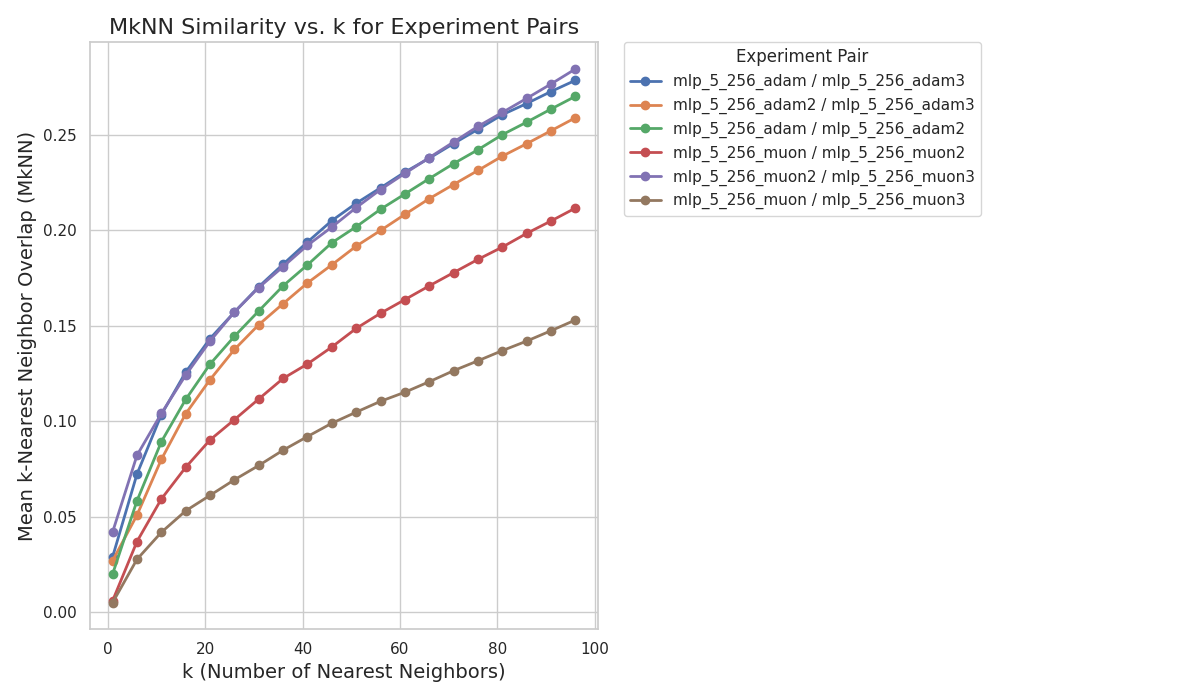
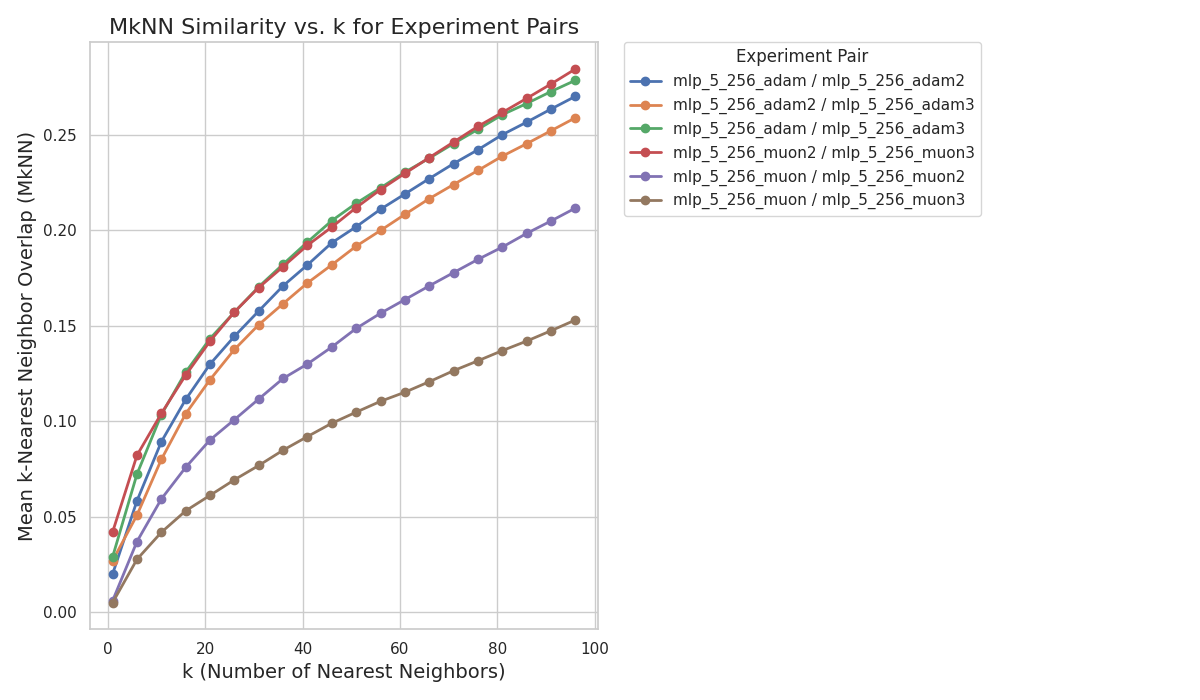
cka

diff --git a/analysis/similarity.py b/analysis/similarity.py
@@ -181,6 +181,7 @@ class similarityScores:
         return jaccard_scores.mean()
 
     def jaccard_experiment(self, pairs, write_path, metric='euclidean'):
+
         """
         Compute Jaccard similarity for multiple pairs of experiments and create a plot.
         """
@@ -207,7 +208,143 @@ class similarityScores:
         plt.savefig(write_path)
         print(f"Plot saved to {write_path}")
         plt.close()
-    
+
+    def cka(self, identifier1, identifier2, num_samples: int = 1000) -> torch.Tensor:
+        """
+        Implements linear Centered Kernel Alignment (CKA) similarity score.
+        This implementation includes normalization steps to ensure numerical stability
+        when comparing activations of different scales.
+
+        Args:
+            identifier1: Either a tuple of indices or a string experiment name
+            identifier2: Either a tuple of indices or a string experiment name
+            num_samples: Number of samples to use from each activation (for computational efficiency)
+
+        Returns:
+            float: linear CKA similarity between the two activation matrices
+        """
+        # Debug specific model pairs
+        debug = False
+        if 'muon' in str(identifier1) and 'muon3' in str(identifier2):
+            debug = True
+            print(f"\n==== DEBUG: CKA between {identifier1} and {identifier2} with {num_samples} samples ====")
+        elif 'adam' in str(identifier1) and 'adam' in str(identifier2) and num_samples >= 6000:
+            debug = True
+            print(f"\n==== DEBUG: CKA between {identifier1} and {identifier2} with {num_samples} samples ====")
+
+        # Load activations
+        X = self.get_activations(identifier1)
+        Y = self.get_activations(identifier2)
+
+        if debug:
+            print(f"Original X shape: {X.shape}, Y shape: {Y.shape}")
+            print(f"X stats - min: {X.min().item()}, max: {X.max().item()}, mean: {X.mean().item()}, std: {X.std().item()}")
+            print(f"Y stats - min: {Y.min().item()}, max: {Y.max().item()}, mean: {Y.mean().item()}, std: {Y.std().item()}")
+
+        # Subsample if needed
+        if X.shape[0] > num_samples:
+            X = X[:num_samples]
+        if Y.shape[0] > num_samples:
+            Y = Y[:num_samples]
+
+        if debug:
+            print(f"After subsampling - X shape: {X.shape}, Y shape: {Y.shape}")
+            print(f"X subsampled stats - min: {X.min().item()}, max: {X.max().item()}, mean: {X.mean().item()}, std: {X.std().item()}")
+            print(f"Y subsampled stats - min: {Y.min().item()}, max: {Y.max().item()}, mean: {Y.mean().item()}, std: {Y.std().item()}")
+
+        # Convert to double precision for numerical stability
+        X = X.to(torch.float64)
+        Y = Y.to(torch.float64)
+        
+        # NORMALIZE BY FROBENIUS NORM - critical for different scales
+        X_norm = torch.norm(X, p='fro')
+        Y_norm = torch.norm(Y, p='fro')
+        
+        if debug:
+            print(f"Original Frobenius norms - X: {X_norm.item()}, Y: {Y_norm.item()}")
+            
+        X = X / X_norm
+        Y = Y / Y_norm
+
+        # Center the representations
+        X = X - X.mean(dim=0, keepdim=True)
+        Y = Y - Y.mean(dim=0, keepdim=True)
+
+        if debug:
+            print(f"After normalization and centering - X mean: {X.mean().item()}, Y mean: {Y.mean().item()}")
+            print(f"X normalized stats - min: {X.min().item()}, max: {X.max().item()}, std: {X.std().item()}")
+            print(f"Y normalized stats - min: {Y.min().item()}, max: {Y.max().item()}, std: {Y.std().item()}")
+            
+            # Check for all-zero dimensions
+            x_zeros = (X.abs().sum(dim=0) < 1e-6).sum().item()
+            y_zeros = (Y.abs().sum(dim=0) < 1e-6).sum().item()
+            print(f"X has {x_zeros}/{X.shape[1]} near-zero dimensions")
+            print(f"Y has {y_zeros}/{Y.shape[1]} near-zero dimensions")
+
+        # Compute Gram matrices
+        gram_X = X @ X.T
+        gram_Y = Y @ Y.T
+
+        if debug:
+            print(f"Gram matrices - X shape: {gram_X.shape}, Y shape: {gram_Y.shape}")
+            print(f"Gram X stats - min: {gram_X.min().item()}, max: {gram_X.max().item()}, mean: {gram_X.mean().item()}")
+            print(f"Gram Y stats - min: {gram_Y.min().item()}, max: {gram_Y.max().item()}, mean: {gram_Y.mean().item()}")
+            print(f"Gram X Frobenius norm: {torch.norm(gram_X, p='fro').item()}")
+            print(f"Gram Y Frobenius norm: {torch.norm(gram_Y, p='fro').item()}")
+
+        # More stable HSIC calculation
+        hsic_val = torch.sum(gram_X * gram_Y)
+        norm_X = torch.sum(gram_X * gram_X)
+        norm_Y = torch.sum(gram_Y * gram_Y)
+
+        if debug:
+            print(f"HSIC value: {hsic_val.item()}")
+            print(f"Normalization terms - norm_X: {norm_X.item()}, norm_Y: {norm_Y.item()}")
+            print(f"Denominator: {(torch.sqrt(norm_X * norm_Y)).item()}")
+
+        # Small epsilon to avoid division by zero
+        cka_score = hsic_val / (torch.sqrt(norm_X * norm_Y) + 1e-10)
+        
+        if debug:
+            print(f"Final CKA score: {cka_score.item()}")
+            print("==== End Debug ====\n")
+
+        return cka_score.item()
+
+    def cka_experiment(self, pairs, write_path):
+        """
+        Calculate CKA on varying sample sizes for each pair to see how similarity
+        changes with the amount of data analyzed.
+        
+        Args:
+            pairs: List of pairs of experiment names
+            write_path: Path to save the plot
+        """
+        # Use specific sample sizes with better spacing
+        sample_lengths = np.arange(1000, 5000, 500)
+        results = np.zeros((len(pairs), len(sample_lengths)))
+
+        for i, pair in enumerate(pairs):
+            for j, n in enumerate(sample_lengths):
+                print(f"Computing CKA with {n} samples for {pair[0]} vs {pair[1]}")
+                results[i, j] = self.cka(pair[0], pair[1], num_samples=n)
+
+        plt.figure(figsize=(12, 7))
+        sns.set_theme(style="whitegrid")
+
+        for i, pair in enumerate(pairs):
+            label = f"{pair[0]} / {pair[1]}"
+            plt.plot(sample_lengths, results[i, :], marker='o', linewidth=2, label=label)
+        
+        plt.title('CKA Similarity vs. Sample Size for Experiment Pairs', fontsize=16)
+        plt.xlabel('Number of Samples', fontsize=14)
+        plt.ylabel('CKA Similarity', fontsize=14)
+        plt.legend(title='Experiment Pair', bbox_to_anchor=(1.05, 1), loc='upper left')
+        plt.tight_layout(rect=[0, 0, 0.85, 1])
+        plt.savefig(write_path)
+        print(f"Plot saved to {write_path}")
+        plt.close()
+
 
 if __name__ == "__main__":
 
@@ -216,7 +353,13 @@ if __name__ == "__main__":
     similarity_scores = similarityScores(activation_tensors)
 
     metric = 'euclidean'
-    pairs = [['mlp_5_256_adam', 'mlp_5_256_adam3'], ['mlp_5_256_adam2', 'mlp_5_256_adam3'], ['mlp_5_256_adam', 'mlp_5_256_adam2'], ['mlp_5_256_muon', 'mlp_5_256_muon2'], ['mlp_5_256_muon2', 'mlp_5_256_muon3'], ['mlp_5_256_muon', 'mlp_5_256_muon3']]
-    
-    similarity_scores.mknn_experiment(pairs, f'analysis/results/mknn_{metric}.png', metric = metric)
+    pairs = [['mlp_5_256_adam','mlp_5_256_adam2'],['mlp_5_256_adam2','mlp_5_256_adam3'], ['mlp_5_256_adam','mlp_5_256_adam3'], ['mlp_5_256_muon2', 'mlp_5_256_muon3'],['mlp_5_256_muon', 'mlp_5_256_muon2'], ['mlp_5_256_muon', 'mlp_5_256_muon3']]
 
+    # EXPERIMENT SUITE
+
+    # DISTANCE-BASED METRICS
+    similarity_scores.mknn_experiment(pairs, f'analysis/results/mknn_{metric}.png', metric = metric)
+    similarity_scores.jaccard_experiment(pairs, f'analysis/results/jaccard_{metric}.png', metric = metric)
+    
+    # DOT PRODUCT METRICS
+    #similarity_scores.cka_experiment(pairs, f'analysis/results/cka_vs_samples.png')

diff --git a/analysis/load_model.py b/analysis/load_model.py
@@ -11,7 +11,7 @@ project_root = os.path.dirname(current_script_dir)
 # Add the project root to sys.path to allow importing 'models'
 if project_root not in sys.path:
     sys.path.append(project_root)
-
+    
 from models import MLP # Assuming models.py is in the project root
 
 def load_mlp_from_experiment(experiment_dir: str, checkpoint_filename: str = "final_model.pt", device: str = "cpu"):
